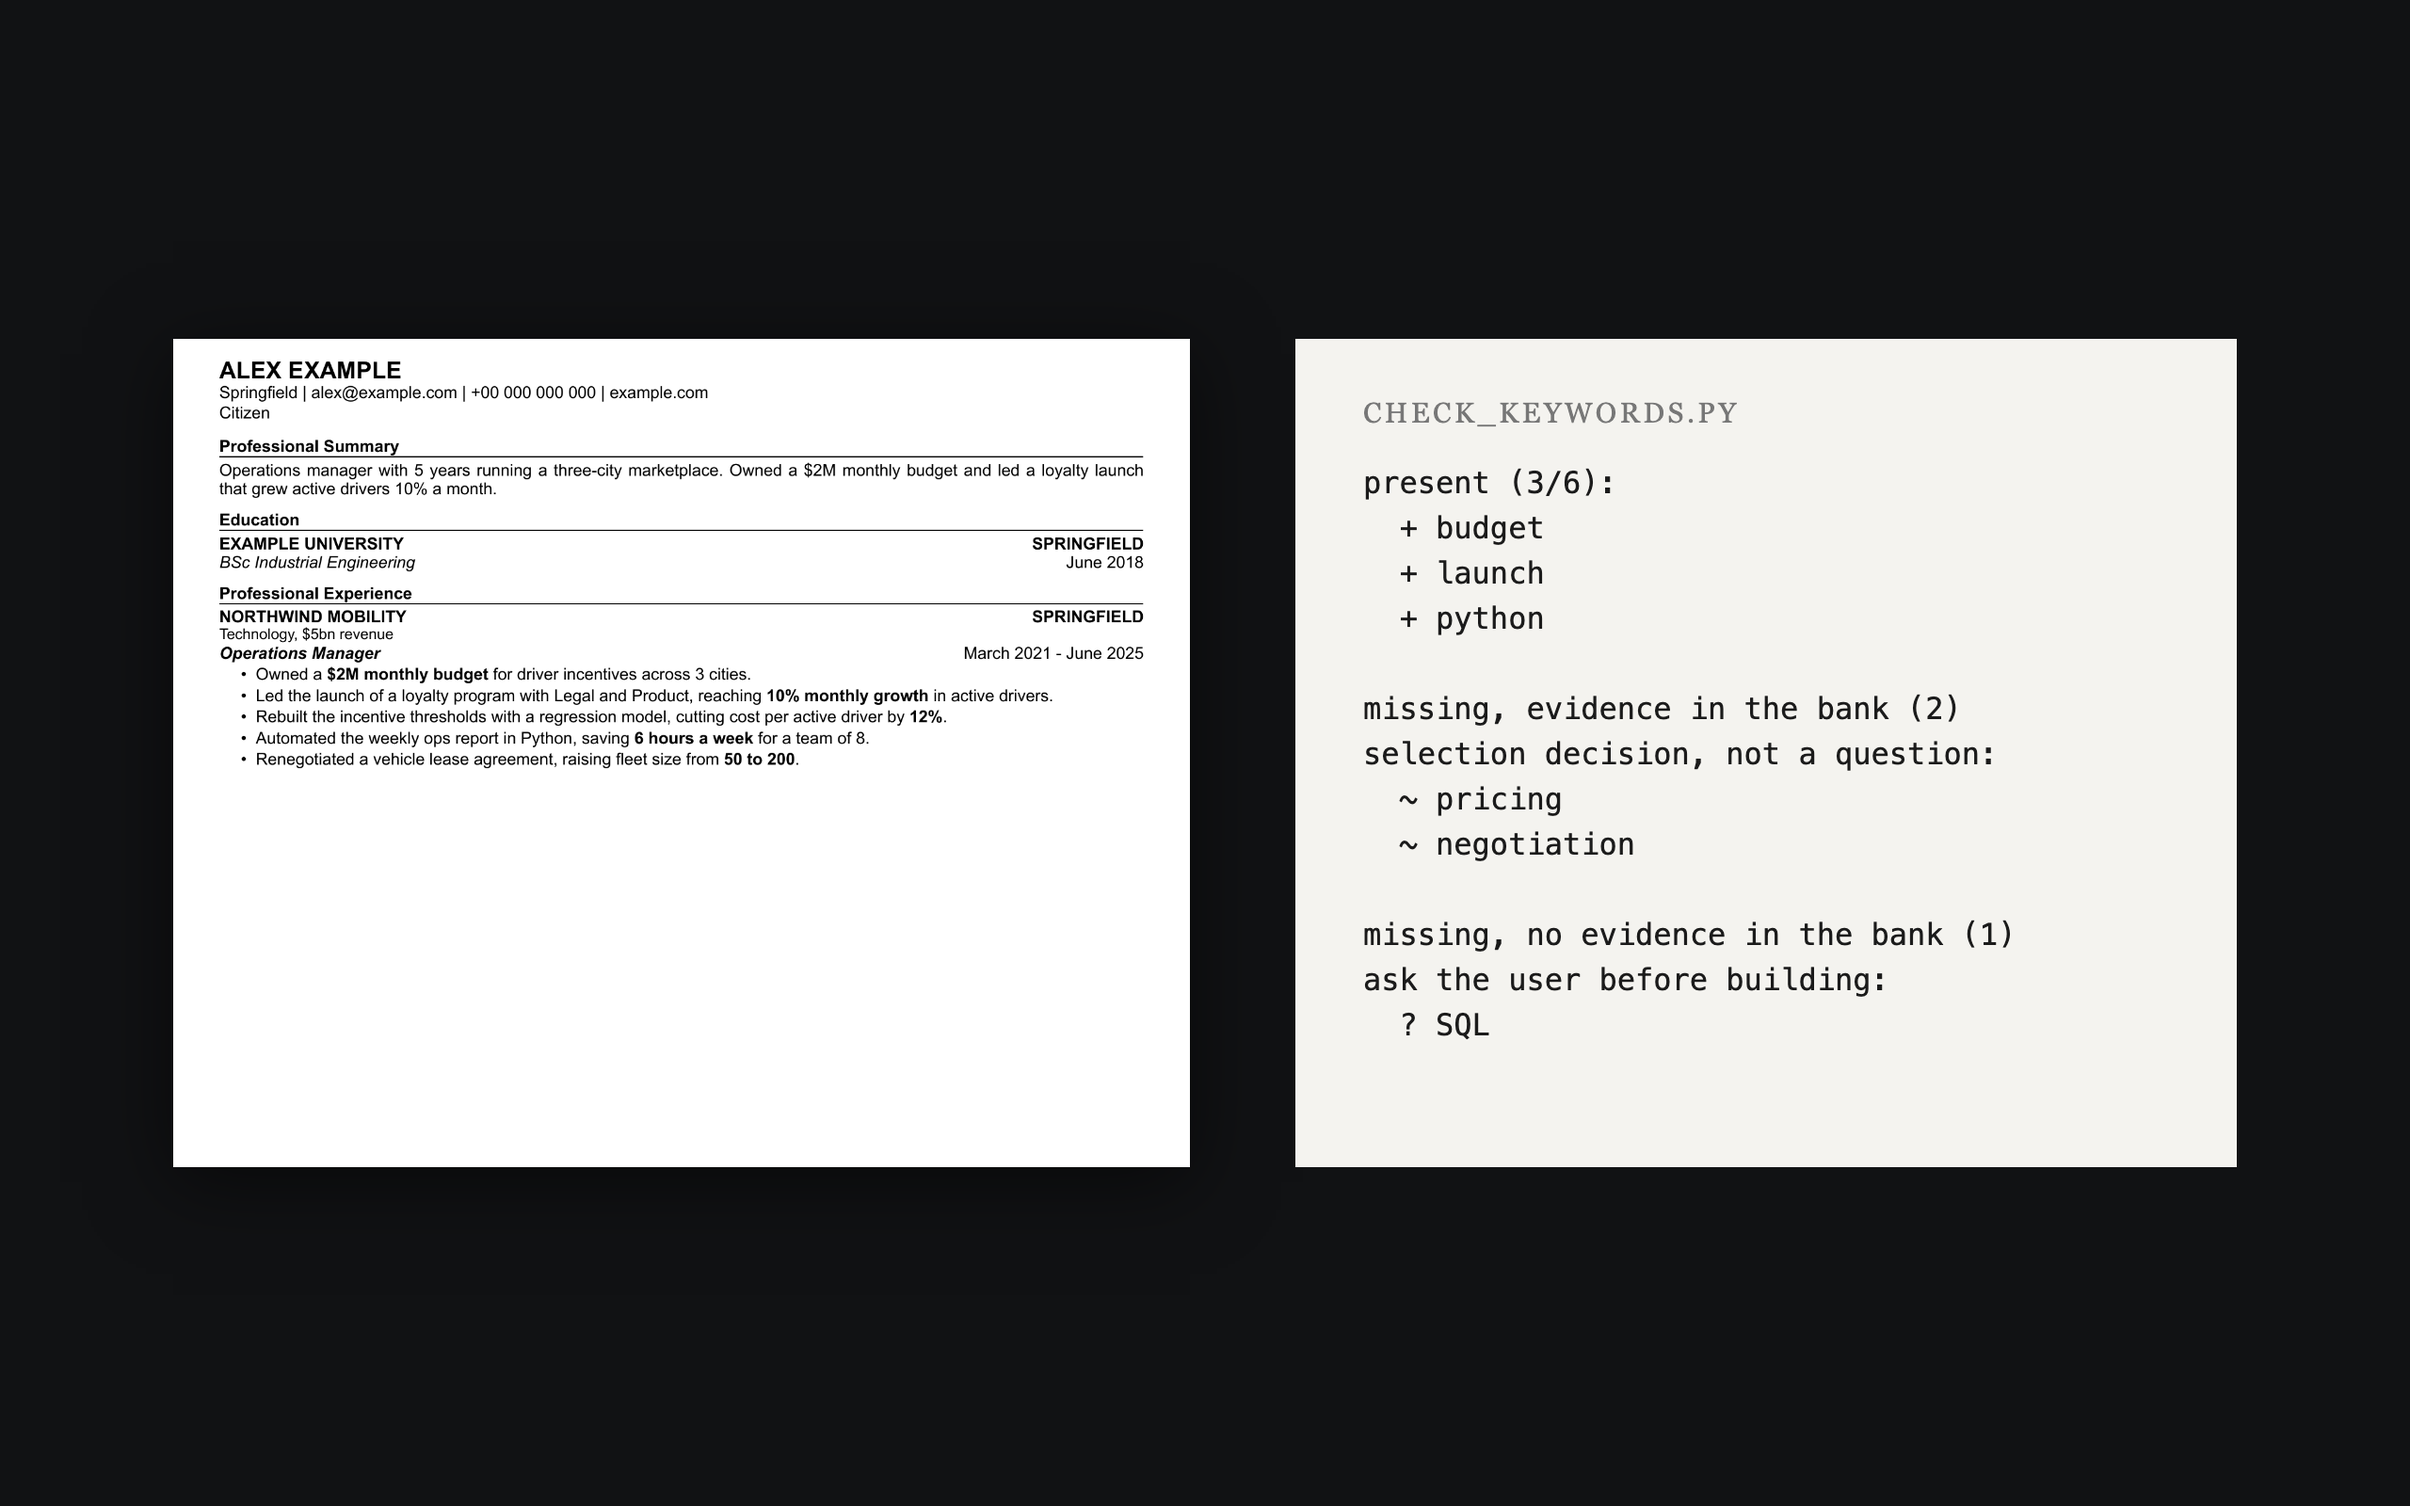
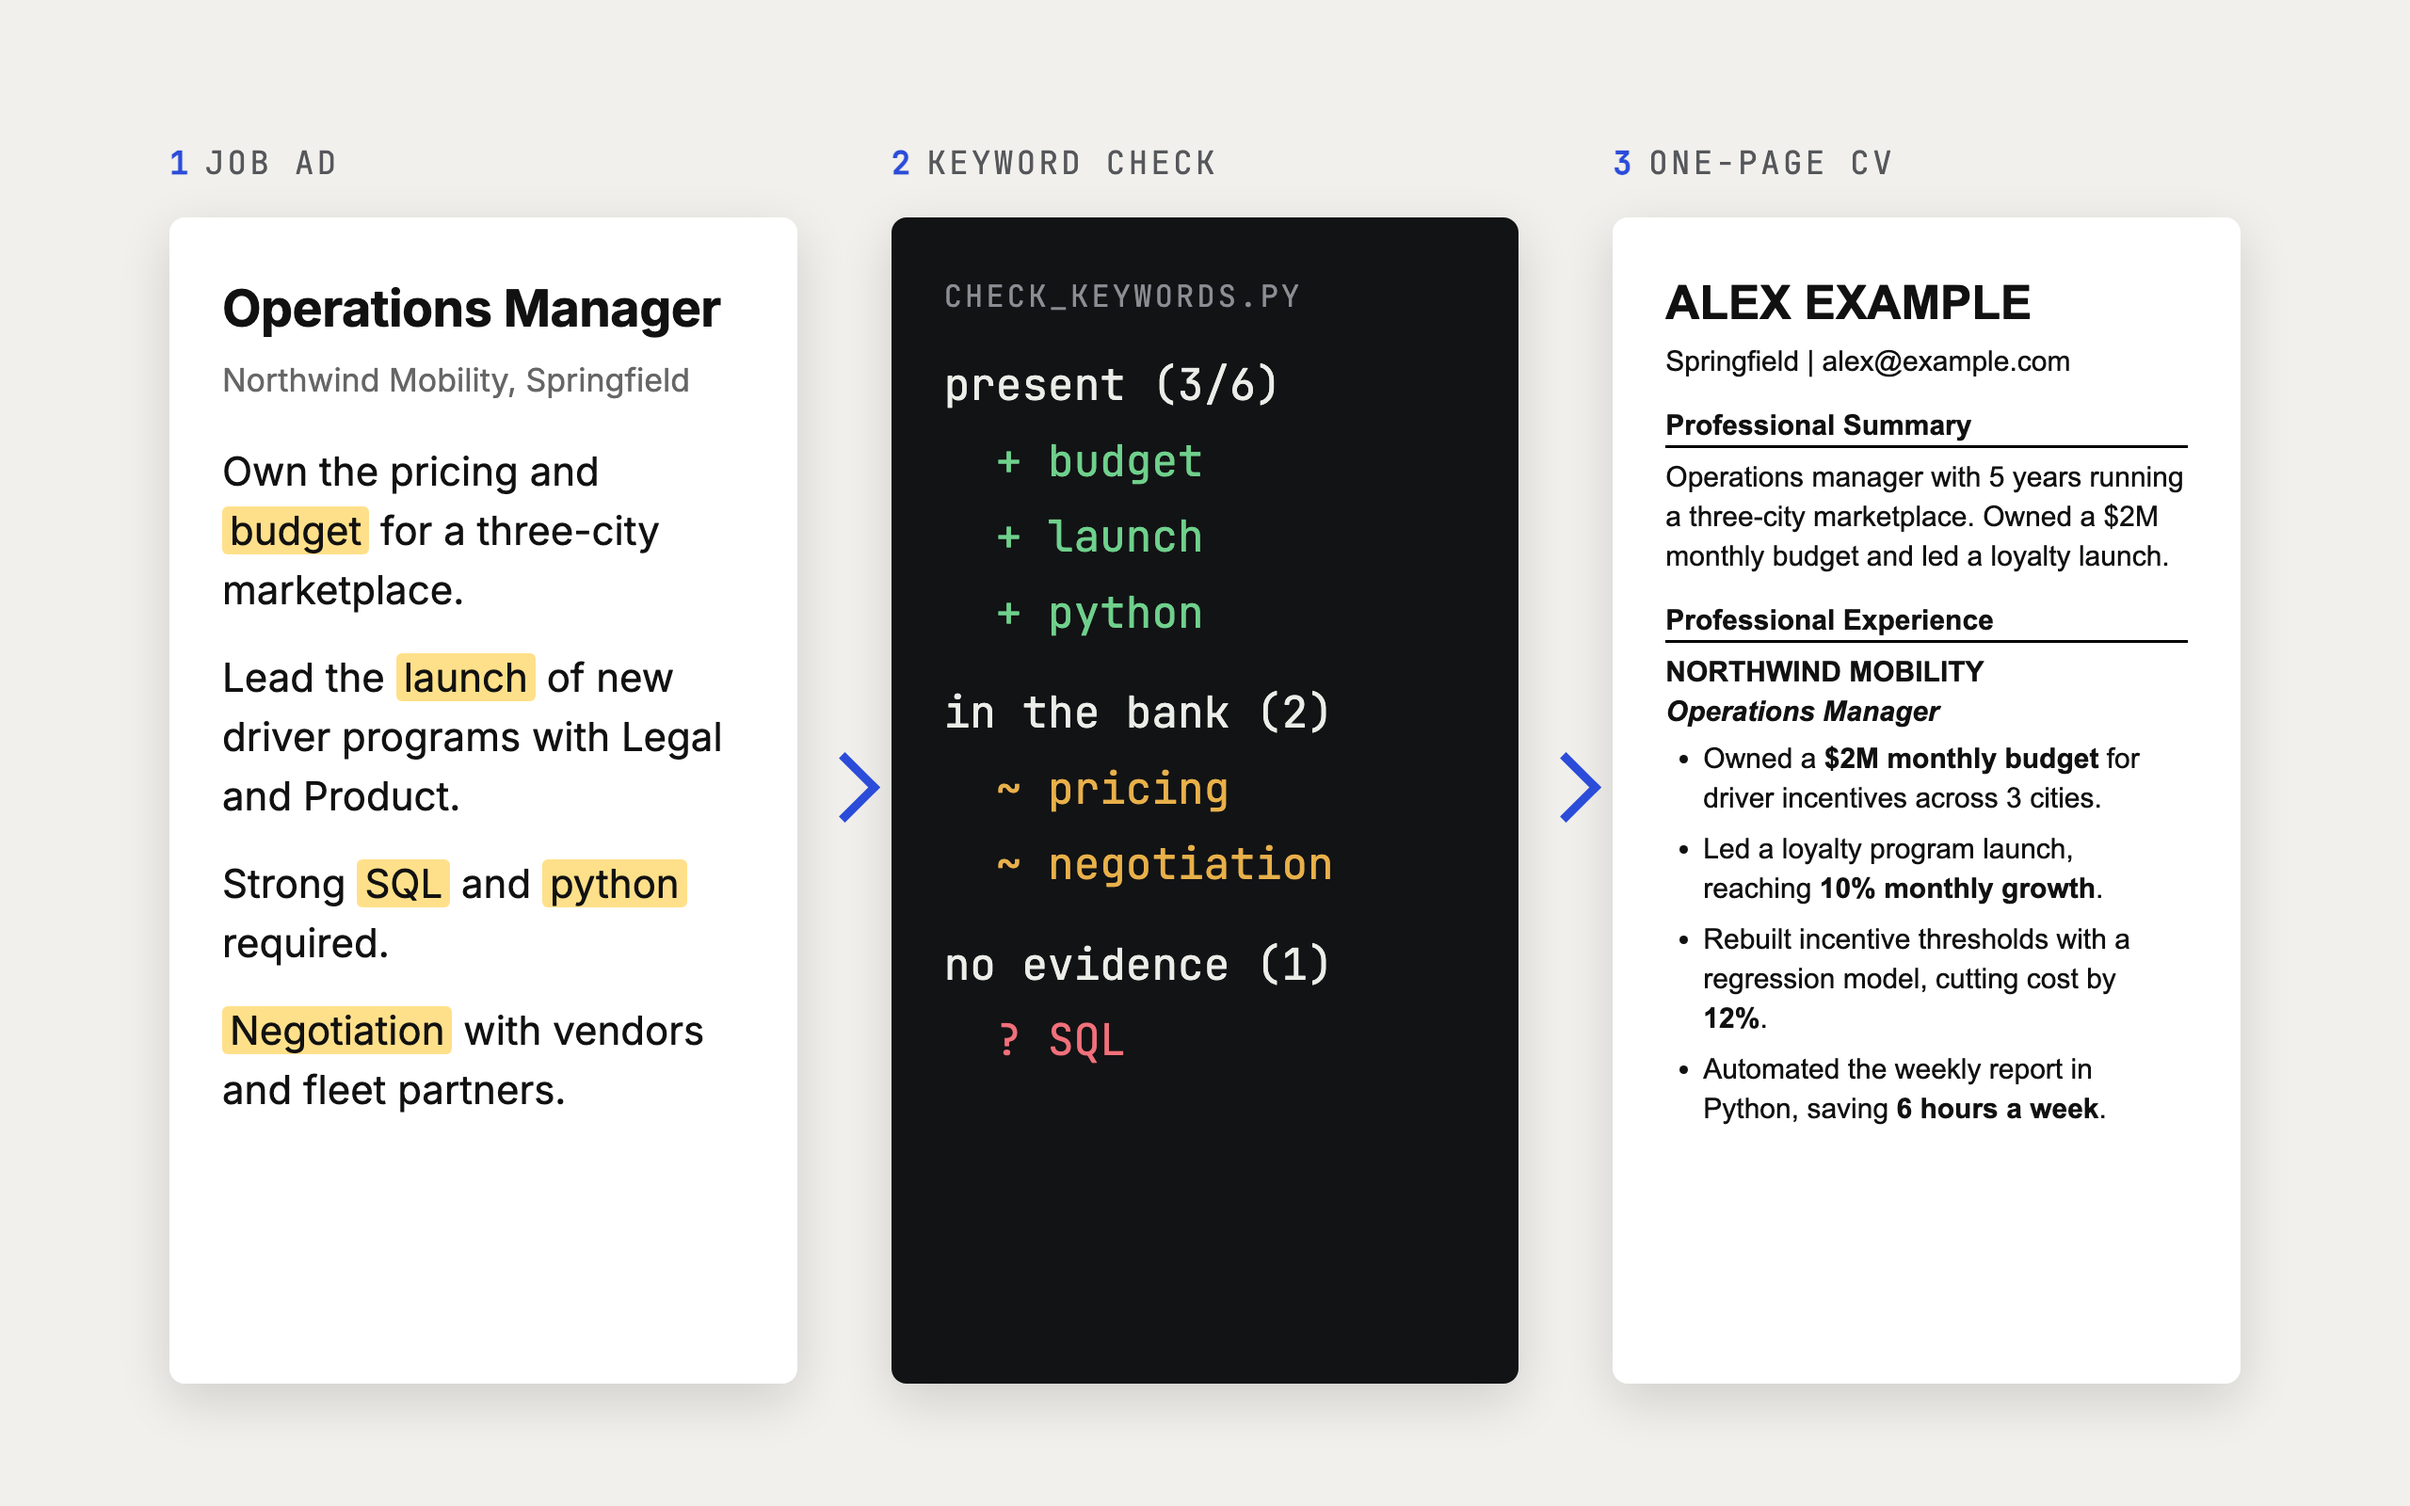
IA OS title and new project images for IA OS and Kindle News

diff --git a/src/content/projects/es/ia-os.md b/src/content/projects/es/ia-os.md
@@ -1,11 +1,11 @@
 ---
 lang: es
-title: ia_os, mi sistema de agentes
+title: IA OS
 order: 3
 href: https://github.com/sebagarciar/ia-os-template
 hrefLabel: Plantilla en GitHub
 shot: ../../../assets/shots/ia-os.png
-shotAlt: Un CV de una página adaptado junto al chequeo de palabras clave, que separa qué faltantes son decisión de selección y cuáles requieren una pregunta al usuario
+shotAlt: Una oferta de trabajo, el chequeo de palabras clave que separa qué faltantes son decisión de selección y cuáles requieren una pregunta, y el CV de una página adaptado
 ---
 
 El sistema con el que llevo mi búsqueda de trabajo, como plantilla limpia. Skills de Claude Code

diff --git a/src/content/projects/en/ia-os.md b/src/content/projects/en/ia-os.md
@@ -1,11 +1,11 @@
 ---
 lang: en
-title: ia_os, my agent system
+title: IA OS
 order: 3
 href: https://github.com/sebagarciar/ia-os-template
 hrefLabel: Template on GitHub
 shot: ../../../assets/shots/ia-os.png
-shotAlt: A tailored one-page CV next to the keyword check that flags which gaps are a selection decision and which need a question for the user
+shotAlt: A job ad, the keyword check that flags which gaps are a selection decision and which need a question, and the tailored one-page CV
 ---
 
 The system I run my job search on, as a clean template. Claude Code skills apply to a job, tailor

diff --git a/src/content/projects/es/kindle-news.md b/src/content/projects/es/kindle-news.md
@@ -5,7 +5,7 @@ order: 2
 href: https://github.com/sebagarciar/kindle-news-filter
 hrefLabel: Código en GitHub
 shot: ../../../assets/shots/kindle-news.png
-shotAlt: Los nueve titulares de una edición real de Kindle News Filter, recreados tal como se ven en el dispositivo
+shotAlt: Una cola de lectura en el teléfono, un modelo local y el resumen de noticias resultante en un Kindle
 ---
 
 Nueve titulares al día, ordenados por cuántos medios los cubren y no por qué

diff --git a/src/content/projects/en/kindle-news.md b/src/content/projects/en/kindle-news.md
@@ -5,7 +5,7 @@ order: 2
 href: https://github.com/sebagarciar/kindle-news-filter
 hrefLabel: Source on GitHub
 shot: ../../../assets/shots/kindle-news.png
-shotAlt: The nine ranked headlines from a real Kindle News Filter edition, rendered as it appears on the device
+shotAlt: A reading queue on a phone, a local model, and the resulting news digest on a Kindle
 ---
 
 Nine headlines a day, ranked by how many outlets cover them rather than by
